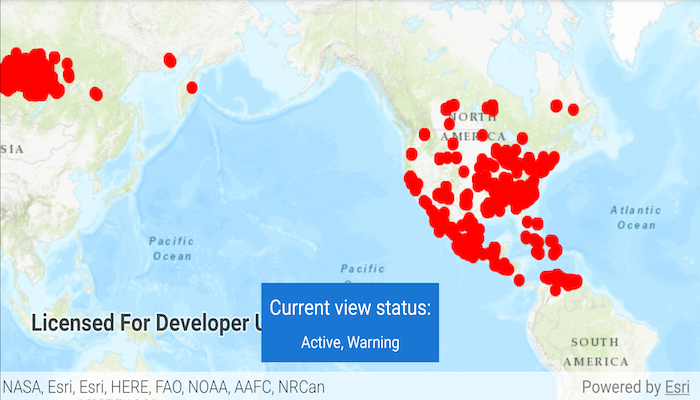
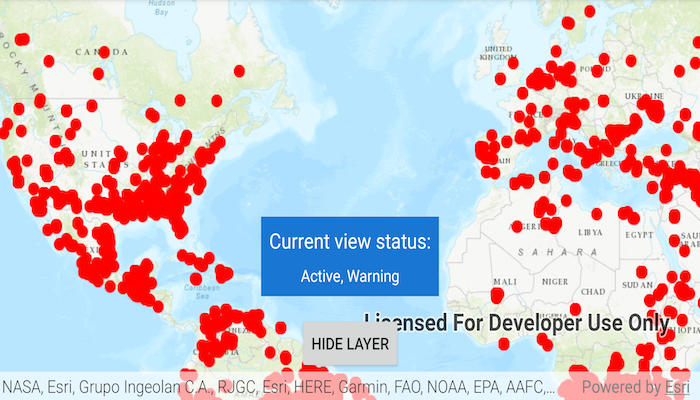
update metadata

diff --git a/kotlin/display-layer-view-state/README.md b/kotlin/display-layer-view-state/README.md
@@ -1,4 +1,4 @@
-# Display layer view status
+# Display layer view state
 
 Determine if a layer is currently being viewed.
 
@@ -10,7 +10,7 @@ The view status includes information on the loading state of layers and whether 
 
 ## How to use the sample
 
-Tap the *Load* button to create a new layer and add it to the map. As you pan and zoom around the map, note how the `LayerViewStatus` flags change; for example, `OUT_OF_SCALE` becomes true when the map is scaled outside of the layer's min and max scale range.
+Tap the *Load layer* button to create a new layer and add it to the map. As you pan and zoom around the map, note how the `LayerViewStatus` flags change; for example, `OUT_OF_SCALE` becomes true when the map is scaled outside of the layer's min and max scale range. Tap the *Hide layer* button to hide the layer and observe the view state change to `NOT_VISIBLE`.
 
 ## How it works
 
@@ -39,7 +39,7 @@ The following are members of the `LayerViewStatus` enum:
 * `OUT_OF_SCALE`: The layer in the view is out of scale. A status of `OUT_OF_SCALE` indicates that the view is zoomed outside of the scale range of the layer. If the view is zoomed too far in (e.g. to a street level), it is beyond the max scale defined for the layer. If the view has zoomed too far out (e.g. to global scale), it is beyond the min scale defined for the layer.
 * `LOADING`: The layer in the view is loading. Once loading has completed, the layer will be available for display in the view. If there was a problem loading the layer, the status will be set to ERROR.
 * `ERROR`: The layer in the view has an unrecoverable error. When the status is `ERROR`, the layer cannot be rendered in the view. For example, it may have failed to load, be an unsupported layer type, or contain invalid data.
-* `WARNING`: The layer in the view has a non-breaking problem with its display, such as incomplete information or a network request failure.
+* `WARNING`: The layer in the view has a non-breaking problem with its display, such as incomplete information (eg. by requesting more features than the max feature count of a service) or a network request failure.
 
 If your device supports airplane mode, you can toggle this on and pan around the map to see layers display the WARNING status when they cannot online fetch data. Toggle airplane mode back off to see the warning disappear.
 
